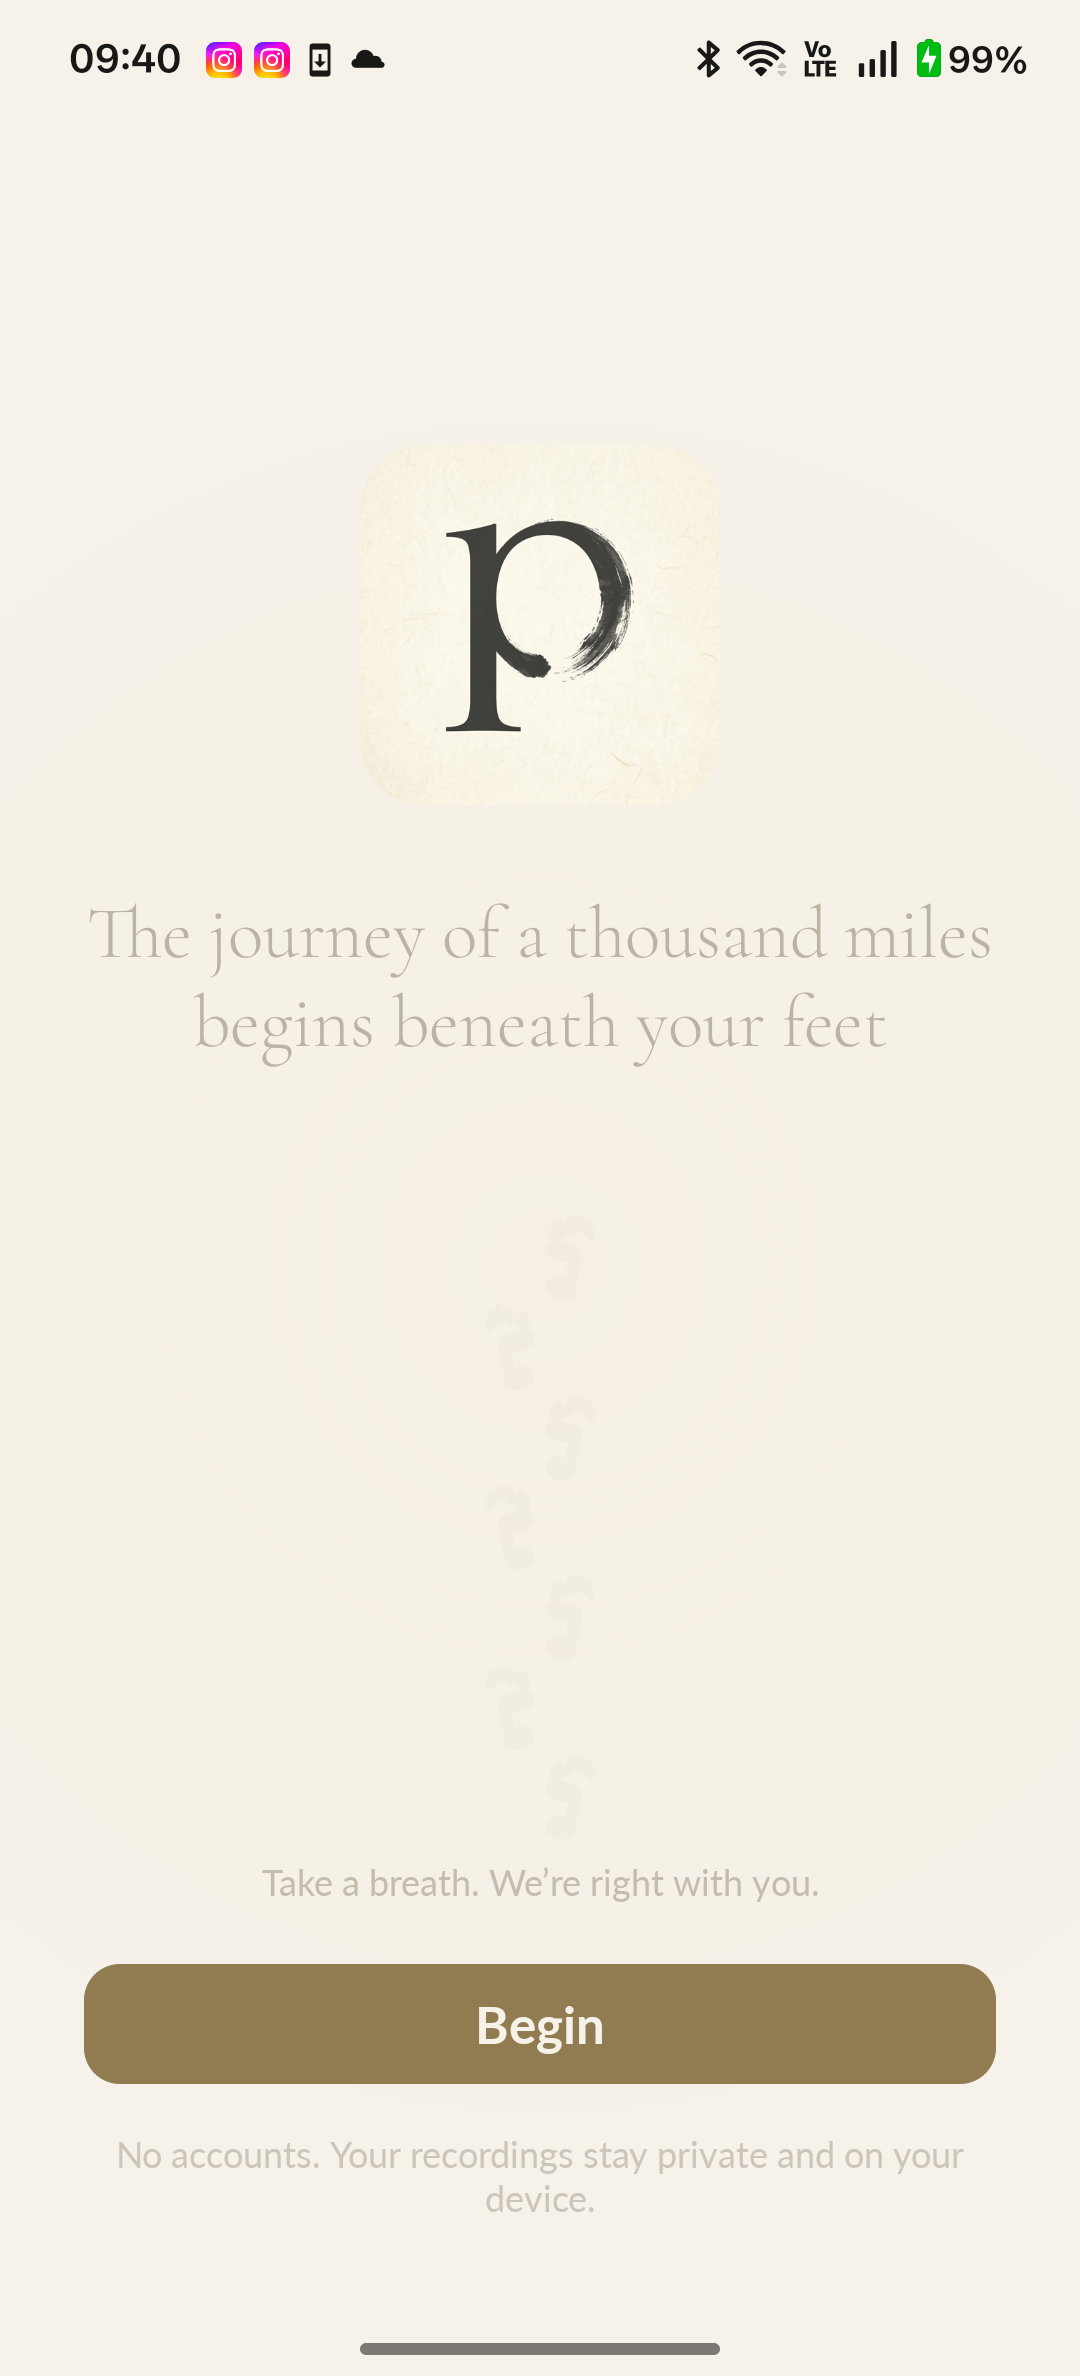
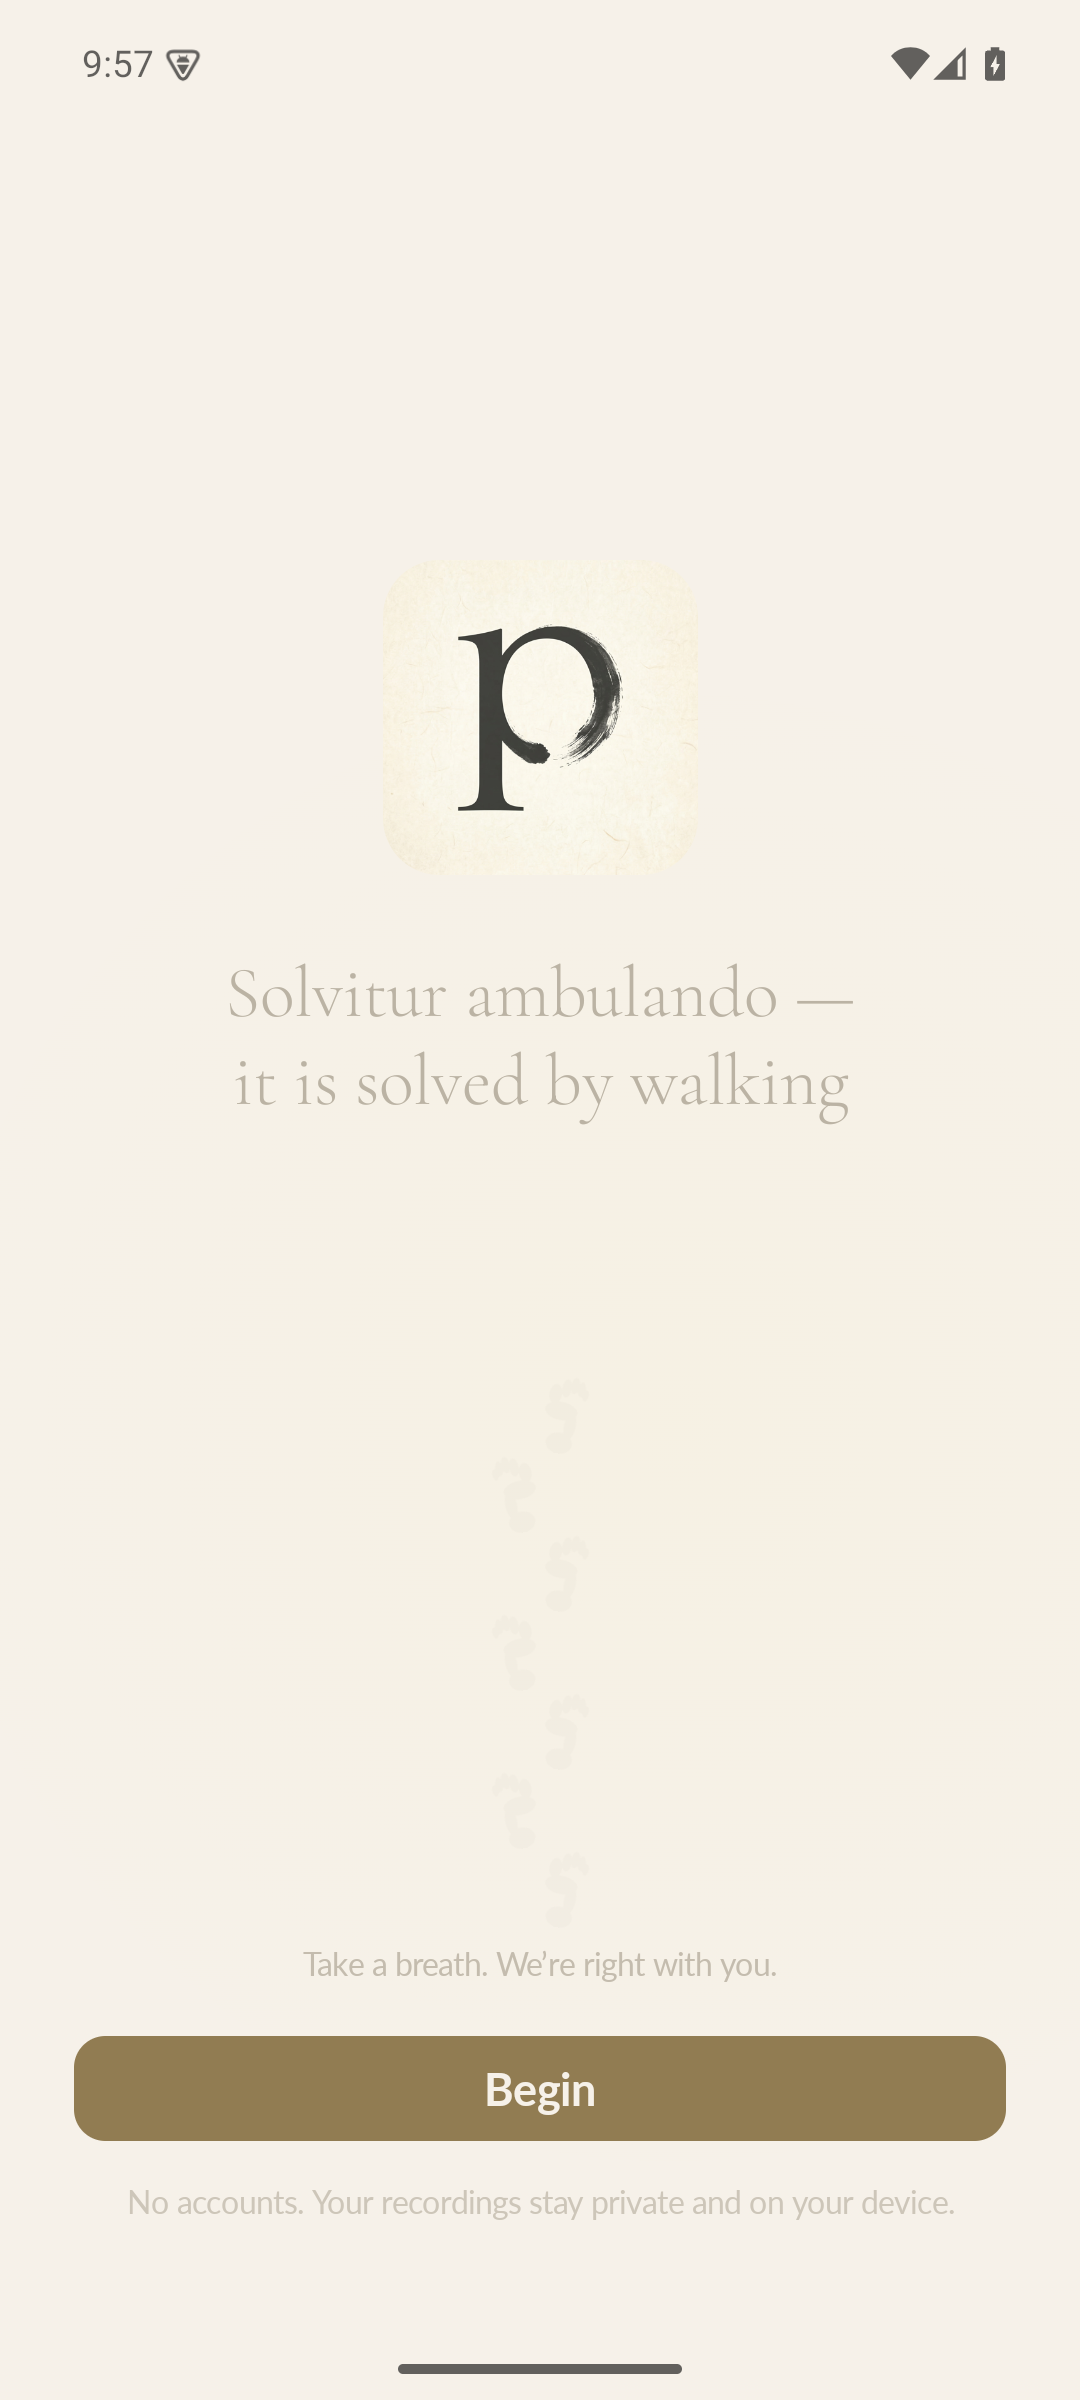
docs(parity): first Android U6 motion via emulator (welcome.entrance)
Proved the emulator delivers the previously-100%-blocked capability:
captured setup.welcome.entrance Android motion (emulator screenrecord
→ mp4) — the first-ever Android U6 motion artifact (OnePlus OEM
blocked screenrecord entirely). Clean 1080x2400 emulator re-capture
of the welcome still + iOS .mov paired. close-the-gap verdict (logo
treatment) stands; motion-pending caveat lifted. Recipe gotcha: after
pm clear use `am start -n .../IconDefault`, not monkey (silently
fails post-wipe).

diff --git a/docs/parity/2026-05-15-parity-ledger.md b/docs/parity/2026-05-15-parity-ledger.md
@@ -247,7 +247,7 @@ These are the **same friction class as seed-gated rows**: they need a scripted s
 
 ### Onboarding pass (2026-05-16 — both platforms clean-wiped: iOS uninstall+reinstall, Android `adb uninstall`+reinstall since OnePlus OEM blocks `pm clear`/`run-as rm`)
 - **setup.launch.loading — L `close-the-gap` (motion-pending)** (fresh blinded reviewer). evidence: `evidence/setup.launch.loading__L__{ios,android}.png`. observed-diff: **Android cold-launch shows a black background + generic white concentric-ring spinner; iOS shows a warm parchment field + faint centered brushstroke "p" mark + cue "Take a breath. We're right with you."** Fundamental brand/background/messaging divergence (not a motion artifact). Also: fresh-install first-run was very slow (~40s black-spinner before Welcome) — secondary perf concern. **Disposition needed (A5/U7):** implement a branded Android launch screen (parchment + "p" + cue; Android-12 SplashScreen theming + branded loading composable) — close-the-gap, non-trivial impl.
-- **setup.welcome.entrance — L `close-the-gap` (motion-pending)** (fresh blinded reviewer). evidence: `evidence/setup.welcome.entrance__L__{ios,android}.png`. observed-diff: **logo treatment — Android "p" tile renders a lighter serif "p" with a thin partial brush ring; iOS renders a heavier ink-filled brushstroke "p" filling the tile.** Quote copy, footprint trail, "Take a breath" line, full-width "Begin", privacy footer all correspond (Android footer wraps 2 lines = nav-inset/width, secondary). **Disposition:** verify whether Android `WelcomeScreen` uses a different/wrong logo asset vs the brushstroke `pilgrimLogo` (capturer code-check) before fixing — flagged close-the-gap.
+- **setup.welcome.entrance — L `close-the-gap`** (fresh blinded reviewer; **motion now captured** — emulator `screenrecord` → `evidence/motion/setup.welcome.entrance__L__android.mp4` (first-ever Android U6 artifact) + iOS `.mov`; the close-the-gap verdict stands regardless of motion). Clean emulator re-capture (1080×2400) at `evidence/setup.welcome.entrance__L__android.png`. observed-diff: **logo treatment — Android "p" tile renders a lighter serif "p" with a thin partial brush ring; iOS renders a heavier ink-filled brushstroke "p" filling the tile.** Quote copy, footprint trail, "Take a breath" line, full-width "Begin", privacy footer all correspond (Android footer wraps 2 lines = nav-inset/width, secondary). **Disposition:** verify whether Android `WelcomeScreen` uses a different/wrong logo asset vs the brushstroke `pilgrimLogo` (capturer code-check) before fixing — flagged close-the-gap.
 - **setup.permissions.initial:** iOS captured (`evidence/setup.permissions.initial__L__ios.png` — "Prepare for the journey" + 3 cards: walk/route, hear/voice [optional], count/steps [optional], each "Continue"); **Android pairing blocked** this pass by device nav thrash (flaky taps strayed into Android system Settings). Android capture deferred.
 - **setup.welcome.reduce-motion / setup.breath.transition / setup.permissions.partial+granted:** not captured — extra state (OS reduce-motion, transient, partial grants); deferred to a focused onboarding state-setup pass.
 

diff --git a/docs/parity/capture-recipe.md b/docs/parity/capture-recipe.md
@@ -40,7 +40,9 @@ emulator -avd pilgrim_parity -no-snapshot -no-audio -no-boot-anim -gpu swiftshad
 adb -s emulator-5560 wait-for-device   # then poll getprop sys.boot_completed == 1
 adb -s emulator-5560 install -r -d app/build/outputs/apk/debug/app-debug.apk
 ```
-Verified on the emulator (all blocked on OnePlus): `pm clear org.walktalkmeditate.pilgrim.debug` → Success (clean wipe → onboarding/journal-empty states); `screenrecord` → writes mp4 (U6 motion for every `anim` row); mock GPS via `adb -s emulator-5560 emu geo fix <lon> <lat>` (scriptable live-walk `walk.*` states). Always target `adb -s emulator-5560` (the OnePlus stays connected too). Resolution/density differs from the OnePlus — fine: blinded review judges layout/structure/copy/iconography, not device-identical pixels. Mixed-device prior evidence is acceptable; re-capture state-preconditioned rows on the emulator.
+Verified on the emulator (all blocked on OnePlus): `pm clear org.walktalkmeditate.pilgrim.debug` → Success (clean wipe → onboarding/journal-empty states); `screenrecord /sdcard/x.mp4` → writes mp4, `pkill -INT screenrecord` then `adb pull` (U6 motion for every `anim` row — proven on `setup.welcome.entrance`, the first-ever Android motion artifact); mock GPS via `adb -s emulator-5560 emu geo fix <lon> <lat>` (scriptable live-walk `walk.*` states).
+
+**Gotcha:** immediately after `pm clear`, `monkey -c LAUNCHER` silently fails to start the app — use the explicit alias component instead: `adb -s emulator-5560 shell am start -n org.walktalkmeditate.pilgrim.debug/org.walktalkmeditate.pilgrim.IconDefault`. Always target `adb -s emulator-5560` (the OnePlus stays connected too). Resolution/density differs from the OnePlus — fine: blinded review judges layout/structure/copy/iconography, not device-identical pixels. Mixed-device prior evidence is acceptable; re-capture state-preconditioned rows on the emulator.
 
 ## Prerequisites
 
